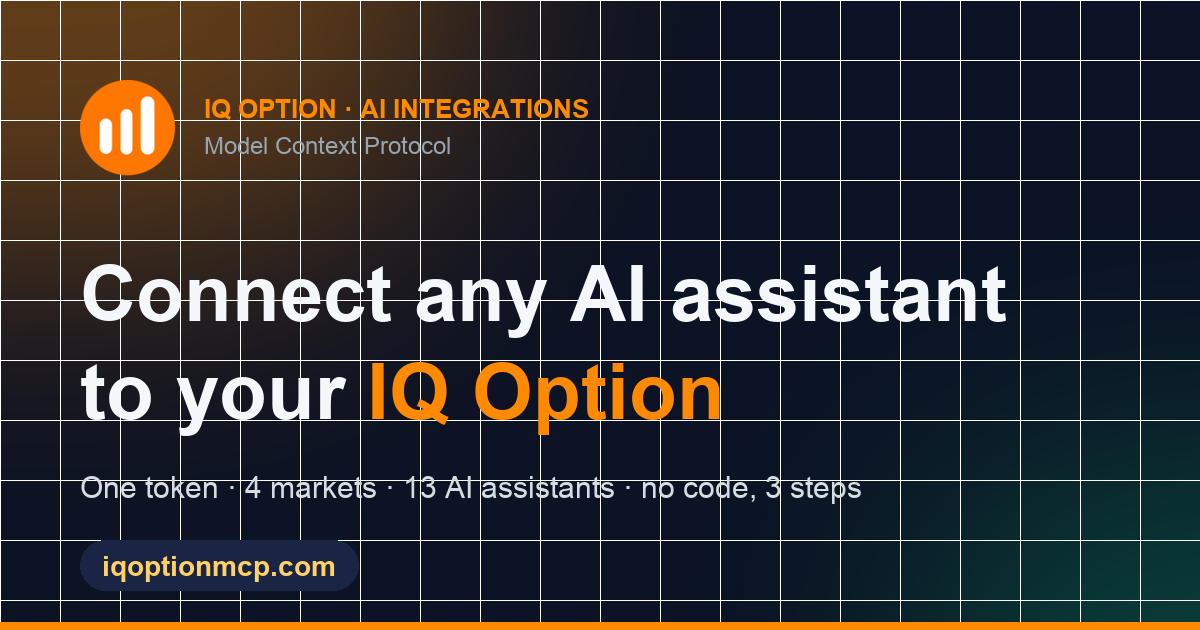
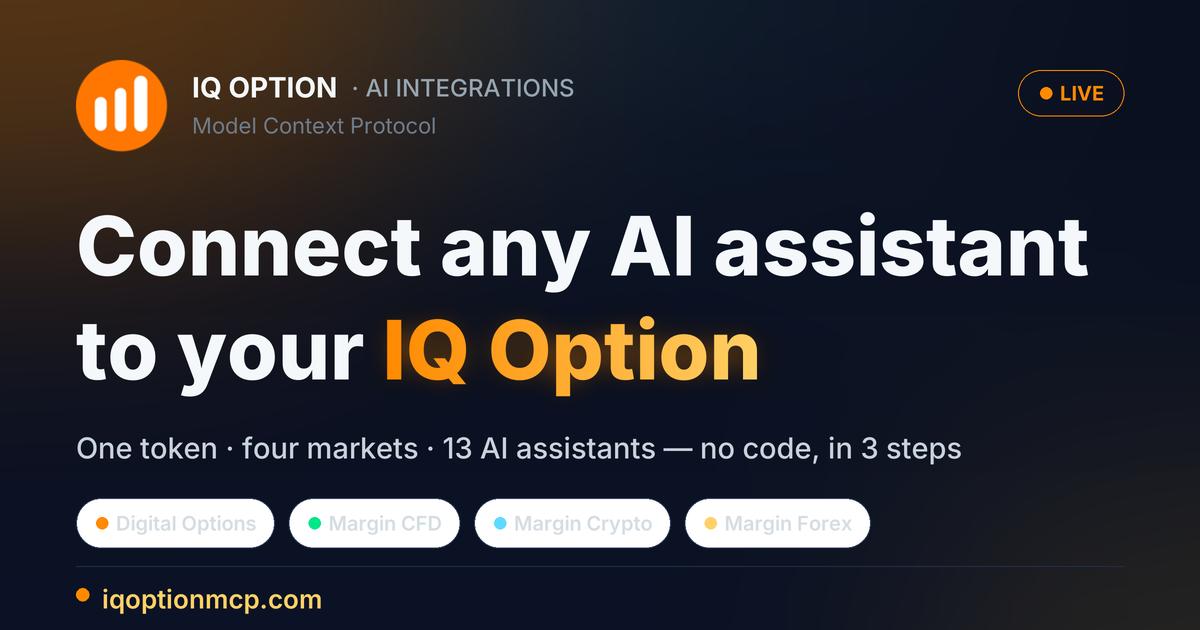
Redesign OG card: drop grid, real Inter, gradient brand word + glow, chips
Rebuild assets/img/og.png per UI/UX Pro Max design intelligence (Dark Mode OLED,
minimal glow, Inter, cinematic/premium): removed the busy grid, embedded the real
Inter font (rendered @user then downscaled for crisp type), refined soft glows,
gradient "IQ Option" wordmark with a subtle glow, a LIVE pill, on-brand market
chips (Digital Options/CFD/Crypto/Forex), and a domain footer.

Changed region(s): [[0.0, 0.3317, 1.0, 1.0], [0.0617, 0.0905, 0.4933, 0.3016], [0.8325, 0.0905, 0.925, 0.2111]]

diff --git a/og_image.py b/og_image.py
@@ -1,83 +1,125 @@
 #!/usr/bin/env python3
-"""Generate a 1200x630 Open Graph / Twitter social card (assets/img/og.png).
-Run once; re-run if the headline/brand changes."""
+"""Generate the 1200x630 Open Graph / social card (assets/img/og.png).
+Design intelligence (UI/UX Pro Max): Dark Mode (OLED) — deep midnight, high contrast,
+minimal glow, Inter, cinematic/premium. Rendered at 2x then downscaled for crisp type."""
+import os, urllib.request
 from PIL import Image, ImageDraw, ImageFont, ImageFilter
 
-W, H = 1200, 630
-BG = (12, 19, 38)        # --bg-app #0C1326
-ORANGE = (255, 138, 0)
-GOLD = (255, 209, 102)
-WHITE = (244, 248, 250)
-MUTE = (150, 165, 176)
+S = 2                                   # supersample factor (render @2x, downscale)
+W, H = 1200 * S, 630 * S
+BG_TOP, BG_BOT = (10, 15, 30), (12, 19, 38)
+ORANGE, GOLD = (255, 138, 0), (255, 209, 102)
+GREEN, CYAN = (0, 230, 139), (94, 218, 255)
+WHITE, MUTE, FAINT = (244, 248, 250), (150, 165, 176), (110, 124, 138)
 
-img = Image.new("RGB", (W, H), BG)
+INTER = "/tmp/Inter.ttf"
+if not os.path.exists(INTER):
+    urllib.request.urlretrieve(
+        "https://github.com/google/fonts/raw/main/ofl/inter/Inter%5Bopsz,wght%5D.ttf", INTER)
 
-# --- ambient glows (match the hero) ---
+def f(size, weight="Regular"):
+    ft = ImageFont.truetype(INTER, size * S)
+    try: ft.set_variation_by_name(weight)
+    except Exception: pass
+    return ft
+
+def lerp(a, b, t): return tuple(int(a[i] + (b[i] - a[i]) * t) for i in range(3))
+
+# ── background: vertical gradient + soft radial glows ───────────────────
+img = Image.new("RGB", (W, H))
+px = img.load()
+for y in range(H):
+    c = lerp(BG_TOP, BG_BOT, y / H)
+    for x in range(W):
+        px[x, y] = c
+
 glow = Image.new("RGBA", (W, H), (0, 0, 0, 0))
 gd = ImageDraw.Draw(glow)
-gd.ellipse([-260, -320, 560, 360], fill=(255, 138, 0, 90))      # orange top-left
-gd.ellipse([820, 360, 1400, 900], fill=(0, 179, 112, 70))       # green bottom-right
-glow = glow.filter(ImageFilter.GaussianBlur(150))
-img.paste(Image.alpha_composite(img.convert("RGBA"), glow).convert("RGB"), (0, 0))
-
-# --- subtle grid ---
-grid = ImageDraw.Draw(img)
-for x in range(0, W, 60):
-    grid.line([(x, 0), (x, H)], fill=(255, 255, 255, 6), width=1)
-for y in range(0, H, 60):
-    grid.line([(0, y), (W, y)], fill=(255, 255, 255, 6), width=1)
-
+gd.ellipse([-340*S, -380*S, 560*S, 320*S], fill=(255, 138, 0, 78))     # orange, top-left
+gd.ellipse([820*S, 380*S, 1380*S, 900*S], fill=(255, 176, 0, 30))      # warm, bottom-right
+gd.ellipse([520*S, -160*S, 1100*S, 240*S], fill=(94, 218, 255, 14))    # faint cyan, top
+glow = glow.filter(ImageFilter.GaussianBlur(150 * S))
+img = Image.alpha_composite(img.convert("RGBA"), glow).convert("RGB")
 d = ImageDraw.Draw(img)
 
-def font(size, bold=True):
-    for p in ([
-        "/System/Library/Fonts/Supplemental/Arial Bold.ttf" if bold else "/System/Library/Fonts/Supplemental/Arial.ttf",
-        "/Library/Fonts/Arial Bold.ttf" if bold else "/Library/Fonts/Arial.ttf",
-        "/System/Library/Fonts/HelveticaNeue.ttc",
-    ]):
-        try:
-            return ImageFont.truetype(p, size)
-        except Exception:
-            continue
-    return ImageFont.load_default()
+PAD = 76 * S
 
-PAD = 80
+def text(xy, s, font, fill):
+    d.text(xy, s, font=font, fill=fill)
 
-# logo
+def grad_word(xy, s, font, c1, c2, glow_color=None):
+    """Draw text with a left→right gradient and an optional soft glow behind it."""
+    w = int(d.textlength(s, font=font))
+    asc, desc = font.getmetrics(); h = asc + desc
+    if glow_color:
+        gl = Image.new("RGBA", (W, H), (0, 0, 0, 0))
+        ImageDraw.Draw(gl).text(xy, s, font=font, fill=glow_color + (200,))
+        gl = gl.filter(ImageFilter.GaussianBlur(14 * S))
+        img.paste(Image.alpha_composite(img.convert("RGBA"), gl).convert("RGB"), (0, 0))
+        d2 = ImageDraw.Draw(img)
+    else:
+        d2 = d
+    row = Image.new("RGB", (max(1, w), 1))
+    for x in range(w):
+        row.putpixel((x, 0), lerp(c1, c2, x / max(1, w - 1)))
+    grad = row.resize((max(1, w), h))
+    mask = Image.new("L", (W, H), 0)
+    ImageDraw.Draw(mask).text(xy, s, font=font, fill=255)
+    img.paste(grad.crop((0, 0, w, h)), (xy[0], xy[1]), mask.crop((xy[0], xy[1], xy[0] + w, xy[1] + h)))
+    return w
+
+def pill(x, y, label, dot):
+    fnt = f(20, "SemiBold")
+    tw = d.textlength(label, font=fnt)
+    pw = int(tw + 58 * S); ph = 50 * S
+    d.rounded_rectangle([x, y, x + pw, y + ph], radius=ph // 2,
+                        fill=(255, 255, 255, 0), outline=(46, 61, 92), width=max(1, S))
+    d.ellipse([x + 20*S, y + ph//2 - 6*S, x + 32*S, y + ph//2 + 6*S], fill=dot)
+    d.text((x + 40*S, y + ph//2 - (fnt.getmetrics()[0]+fnt.getmetrics()[1])//2), label, font=fnt, fill=(213, 221, 226))
+    return pw
+
+# ── header: logo + wordmark + LIVE pill ─────────────────────────────────
 try:
-    logo = Image.open("assets/img/logo.png").convert("RGBA")
-    logo.thumbnail((104, 104))
-    img.paste(logo, (PAD, PAD), logo)
+    logo = Image.open(os.path.join(os.path.dirname(__file__), "assets/img/logo.png")).convert("RGBA")
+    logo = logo.resize((92 * S, 92 * S))
+    img.paste(logo, (PAD, 60 * S), logo)
 except Exception:
     pass
+text((PAD + 116*S, 70*S), "IQ OPTION", f(28, "Bold"), WHITE)
+wlen = d.textlength("IQ OPTION", font=f(28, "Bold"))
+text((PAD + 116*S + int(wlen) + 14*S, 73*S), "· AI INTEGRATIONS", f(24, "Medium"), MUTE)
+text((PAD + 116*S, 112*S), "Model Context Protocol", f(22, "Regular"), FAINT)
+# LIVE pill (top-right)
+lp = f(20, "Bold"); lw = d.textlength("LIVE", font=lp)
+lx = W - PAD - int(lw) - 62*S
+d.rounded_rectangle([lx, 70*S, W - PAD, 70*S + 46*S], radius=23*S, outline=(255,138,0,120), width=max(1,S))
+d.ellipse([lx + 22*S, 70*S + 17*S, lx + 34*S, 70*S + 29*S], fill=ORANGE)
+d.text((lx + 42*S, 70*S + 23*S - (lp.getmetrics()[0]+lp.getmetrics()[1])//2), "LIVE", font=lp, fill=ORANGE)
 
-# eyebrow
-eb = font(26)
-d.text((PAD + 124, PAD + 14), "IQ OPTION · AI INTEGRATIONS", font=eb, fill=ORANGE)
-d.text((PAD + 124, PAD + 52), "Model Context Protocol", font=font(24, False), fill=MUTE)
-
-# headline (two lines; accent the brand)
-h1 = font(78)
-d.text((PAD, 250), "Connect any AI assistant", font=h1, fill=WHITE)
-y2 = 348
+# ── headline ────────────────────────────────────────────────────────────
+hf = f(82, "ExtraBold")
+text((PAD, 196*S), "Connect any AI assistant", hf, WHITE)
+y2 = 300 * S
 pre = "to your "
-d.text((PAD, y2), pre, font=h1, fill=WHITE)
-w_pre = d.textlength(pre, font=h1)
-d.text((PAD + w_pre, y2), "IQ Option", font=h1, fill=ORANGE)
+text((PAD, y2), pre, hf, WHITE)
+grad_word((PAD + int(d.textlength(pre, font=hf)), y2), "IQ Option", hf, ORANGE, GOLD, glow_color=ORANGE)
 
-# subtitle
-d.text((PAD, 470), "One token · 4 markets · 13 AI assistants · no code, 3 steps",
-       font=font(30, False), fill=(213, 221, 226))
+# ── subtitle ────────────────────────────────────────────────────────────
+text((PAD, 430*S), "One token · four markets · 13 AI assistants — no code, in 3 steps",
+     f(29, "Medium"), (200, 211, 219))
 
-# domain pill
-dom = font(28)
-dtext = "iqoptionmcp.com"
-dw = d.textlength(dtext, font=dom)
-d.rounded_rectangle([PAD, 540, PAD + dw + 44, 590], radius=25, fill=(26, 37, 69))
-d.text((PAD + 22, 550), dtext, font=dom, fill=GOLD)
+# ── market chips ────────────────────────────────────────────────────────
+cx = PAD; cy = 498 * S
+for label, dot in [("Digital Options", ORANGE), ("Margin CFD", GREEN), ("Margin Crypto", CYAN), ("Margin Forex", GOLD)]:
+    cx += pill(cx, cy, label, dot) + 14 * S
 
-# bottom accent bar
-d.rectangle([0, H - 8, W, H], fill=ORANGE)
+# ── domain (bottom) + hairline ──────────────────────────────────────────
+d.line([PAD, 566*S, W - PAD, 566*S], fill=(34, 47, 71), width=max(1, S))
+df = f(26, "SemiBold")
+d.ellipse([PAD, 588*S, PAD + 13*S, 601*S], fill=ORANGE)
+text((PAD + 26*S, 583*S), "iqoptionmcp.com", df, GOLD)
 
-img.save("assets/img/og.png", "PNG", optimize=True)
+# downscale for crisp anti-aliased type
+img = img.resize((1200, 630), Image.LANCZOS)
+img.save(os.path.join(os.path.dirname(__file__), "assets/img/og.png"), "PNG", optimize=True)
 print("wrote assets/img/og.png", img.size)